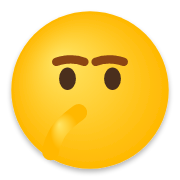
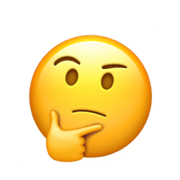
Switch to using actual emoji in SVG with Apple Color Emoji font

diff --git a/scripts/generate-emoji.js b/scripts/generate-emoji.js
@@ -1,0 +1,27 @@
+const { createCanvas } = require('canvas');
+const fs = require('fs');
+
+function generateEmoji(size, outputPath) {
+  const canvas = createCanvas(size, size);
+  const ctx = canvas.getContext('2d');
+  
+  // Clear background
+  ctx.fillStyle = 'white';
+  ctx.fillRect(0, 0, size, size);
+  
+  // Draw emoji
+  ctx.font = `${size * 0.8}px Apple Color Emoji`;
+  ctx.textAlign = 'center';
+  ctx.textBaseline = 'middle';
+  ctx.fillText('🤔', size/2, size/2);
+  
+  // Save to file
+  const buffer = canvas.toBuffer('image/png');
+  fs.writeFileSync(outputPath, buffer);
+}
+
+// Generate different sizes
+generateEmoji(16, '../public/favicon-16x16.png');
+generateEmoji(32, '../public/favicon-32x32.png');
+generateEmoji(180, '../public/apple-touch-icon.png');
+generateEmoji(1200, '../public/og-image.png');

diff --git a/public/images/emoji.html b/public/images/emoji.html
@@ -1,0 +1,36 @@
+<!DOCTYPE html>
+<html>
+<head>
+  <style>
+    body {
+      margin: 0;
+      padding: 0;
+      display: flex;
+      justify-content: center;
+      align-items: center;
+      min-height: 100vh;
+      background: white;
+    }
+    .emoji {
+      font-size: 256px;
+      line-height: 1;
+    }
+    .emoji-small {
+      font-size: 32px;
+      line-height: 1;
+    }
+    .container {
+      display: flex;
+      flex-direction: column;
+      gap: 2rem;
+      align-items: center;
+    }
+  </style>
+</head>
+<body>
+  <div class="container">
+    <div class="emoji">🤔</div>
+    <div class="emoji-small">🤔</div>
+  </div>
+</body>
+</html>
